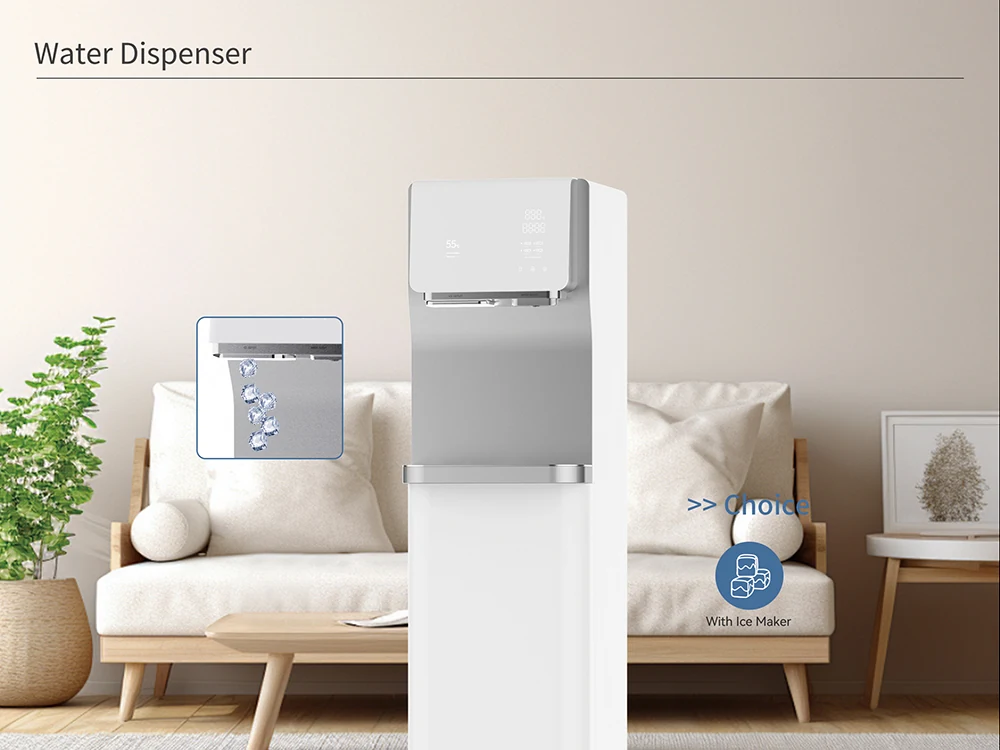
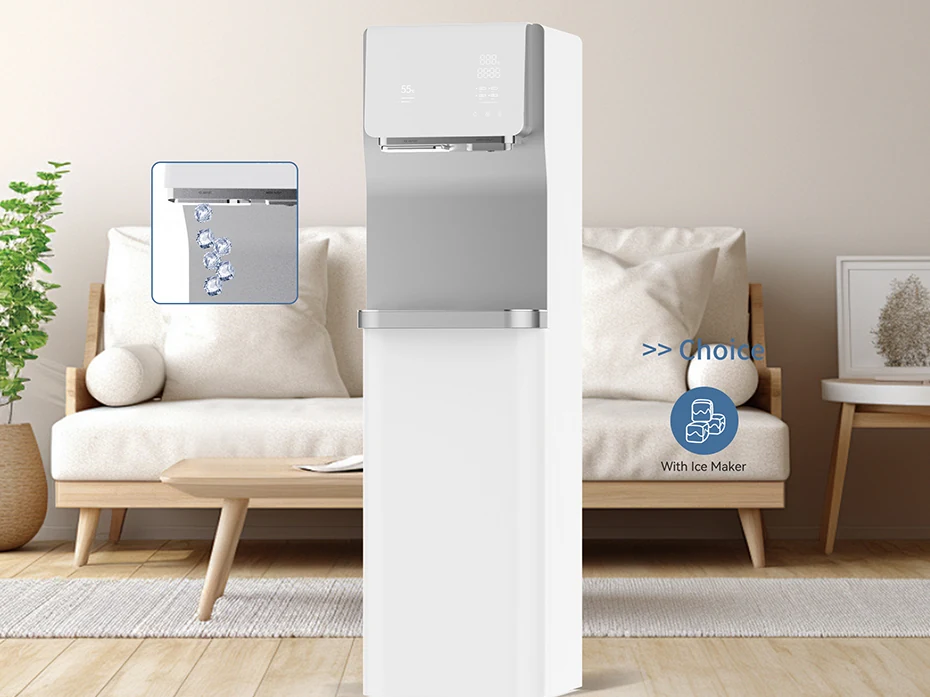
Clean Water Dispenser catalog image crops

diff --git a/src/pages/WaterDispenserProductPage.tsx b/src/pages/WaterDispenserProductPage.tsx
@@ -1,4 +1,4 @@
-import { useEffect } from 'react'
+import { useEffect } from 'react'
 import Header from '../components/Header'
 import Footer from '../components/Footer'
 import { applySEO } from '../lib/seo'
@@ -59,7 +59,7 @@ function ProductImage({ product, priority = false }: { product: WaterDispenserPr
       <img
         src={product.image}
         alt={product.imageAlt}
-        className="h-full w-full object-contain"
+        className="h-full w-full object-cover"
         loading={priority ? 'eager' : 'lazy'}
         decoding="async"
         fetchPriority={priority ? 'high' : undefined}
@@ -95,7 +95,7 @@ function RelatedCard({ product }: { product: WaterDispenserProduct }) {
   return (
     <a href={getWaterDispenserHref(product)} className="group rounded-[1.6rem] border border-line bg-white/75 p-4 shadow-sm transition duration-300 hover:-translate-y-1 hover:shadow-soft">
       <div className="aspect-[4/3] overflow-hidden rounded-[1.2rem] bg-white">
-        <img src={product.image} alt={product.imageAlt} className="h-full w-full object-contain" loading="lazy" decoding="async" />
+        <img src={product.image} alt={product.imageAlt} className="h-full w-full object-cover" loading="lazy" decoding="async" />
       </div>
       <h3 className="mt-5 text-lg font-medium leading-tight text-ink">{product.name}</h3>
       <p className="mt-2 text-sm text-ink/50">{product.category}</p>
@@ -280,5 +280,4 @@ export default function WaterDispenserProductPage({ slug }: { slug: string }) {
     </>
   )
 }
-
 

diff --git a/src/pages/WaterDispensersPage.tsx b/src/pages/WaterDispensersPage.tsx
@@ -1,4 +1,4 @@
-import { useEffect } from 'react'
+import { useEffect } from 'react'
 import Header from '../components/Header'
 import Footer from '../components/Footer'
 import { applySEO } from '../lib/seo'
@@ -38,7 +38,7 @@ function ProductImage({ product, priority = false }: { product: WaterDispenserPr
       <img
         src={product.image}
         alt={product.imageAlt}
-        className="h-full w-full object-contain"
+        className="h-full w-full object-cover"
         loading={priority ? 'eager' : 'lazy'}
         decoding="async"
         fetchPriority={priority ? 'high' : undefined}
@@ -274,5 +274,4 @@ export default function WaterDispensersPage() {
     </>
   )
 }
-
 
